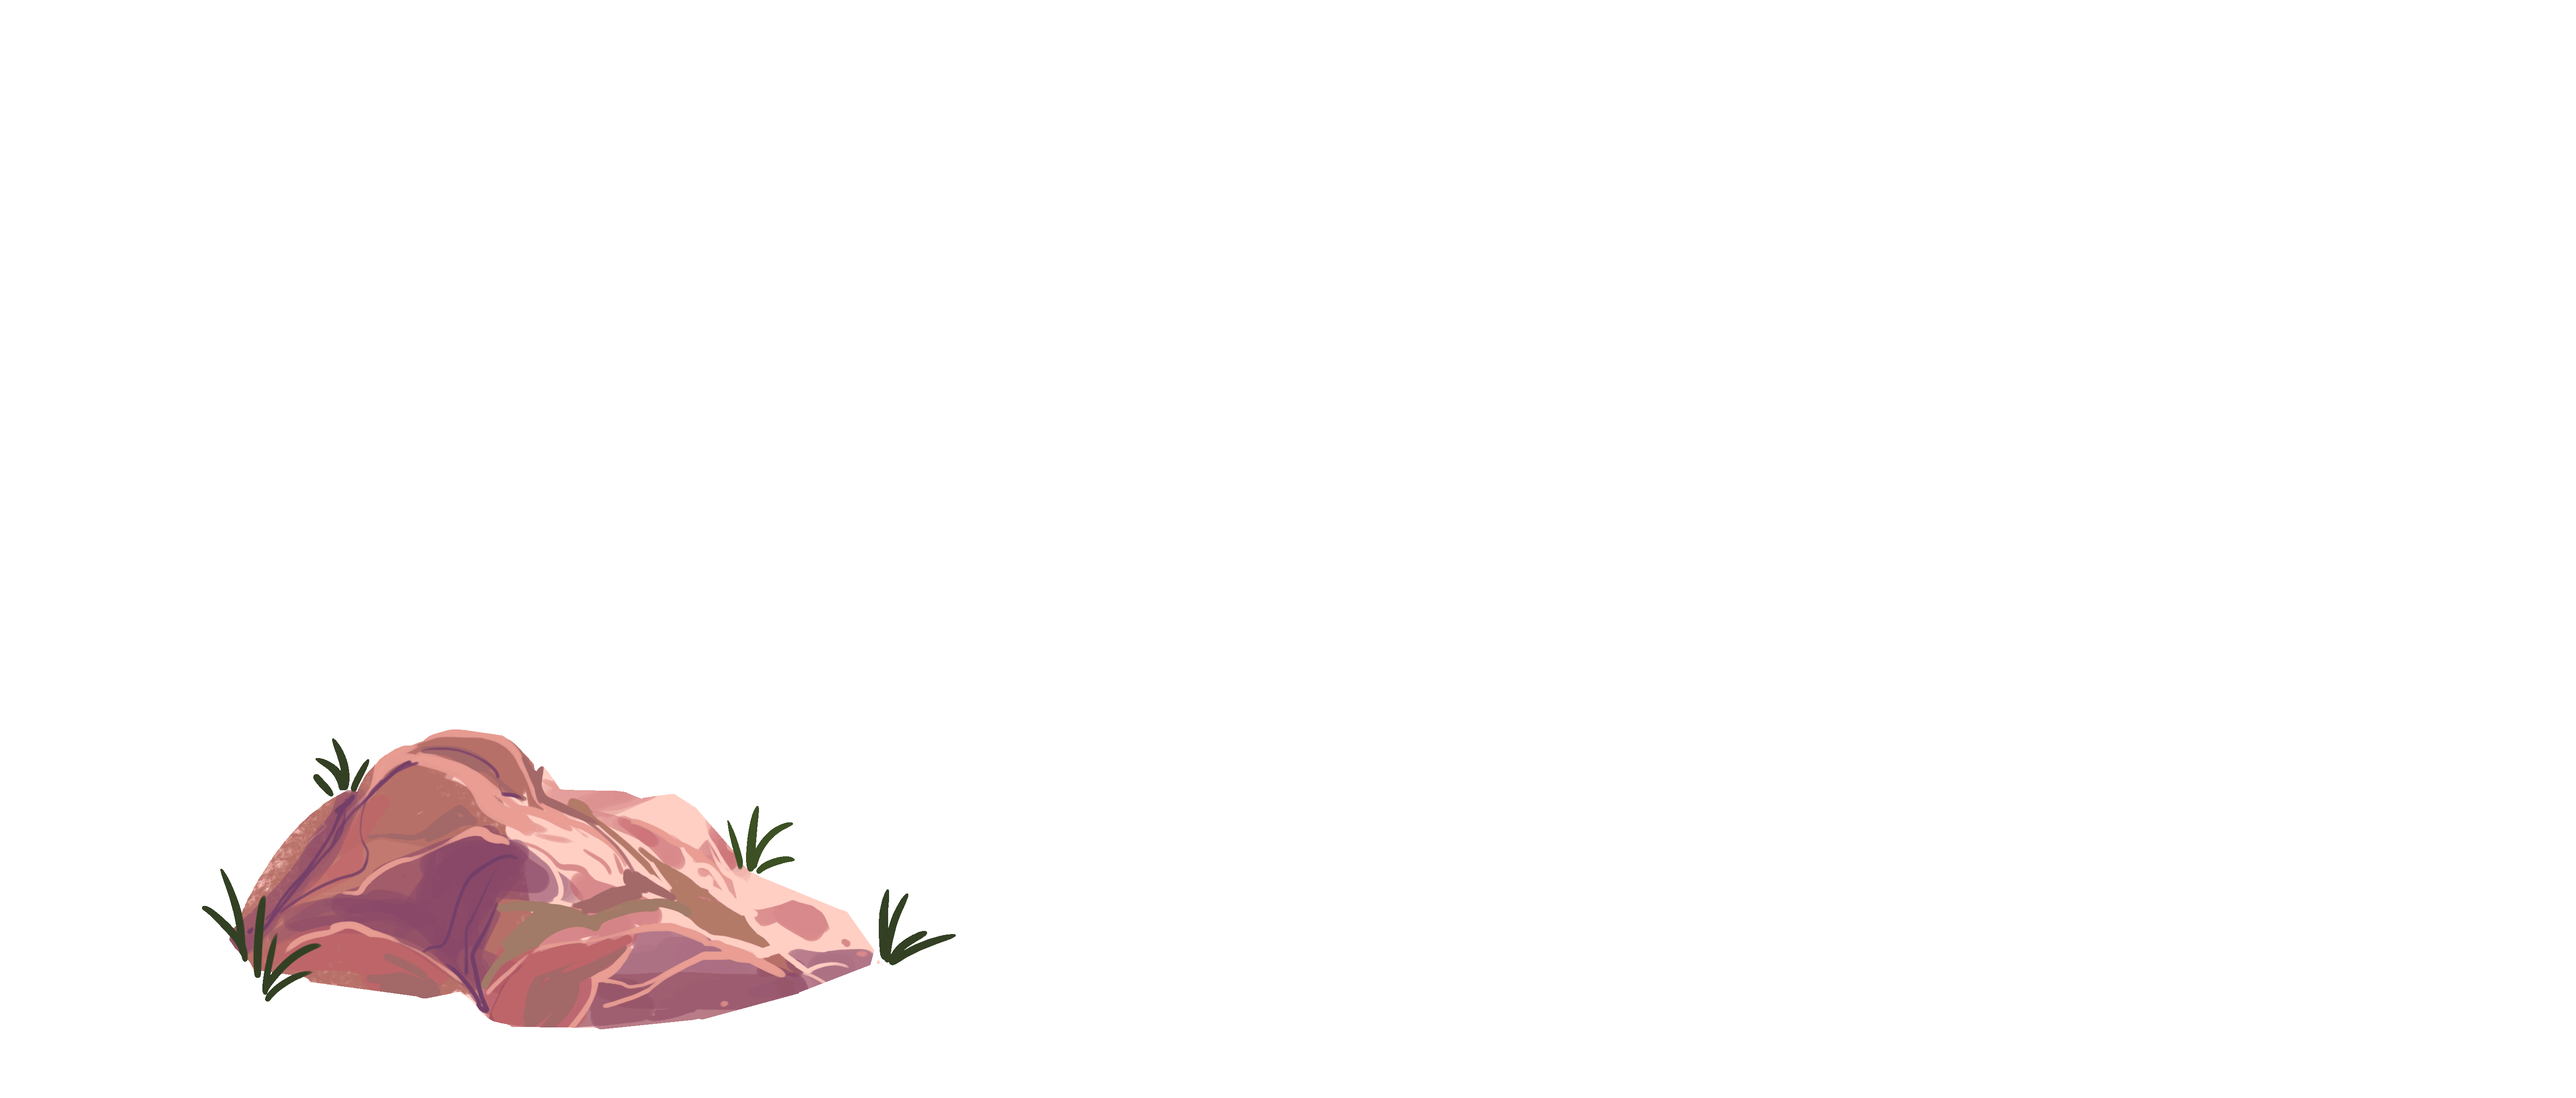
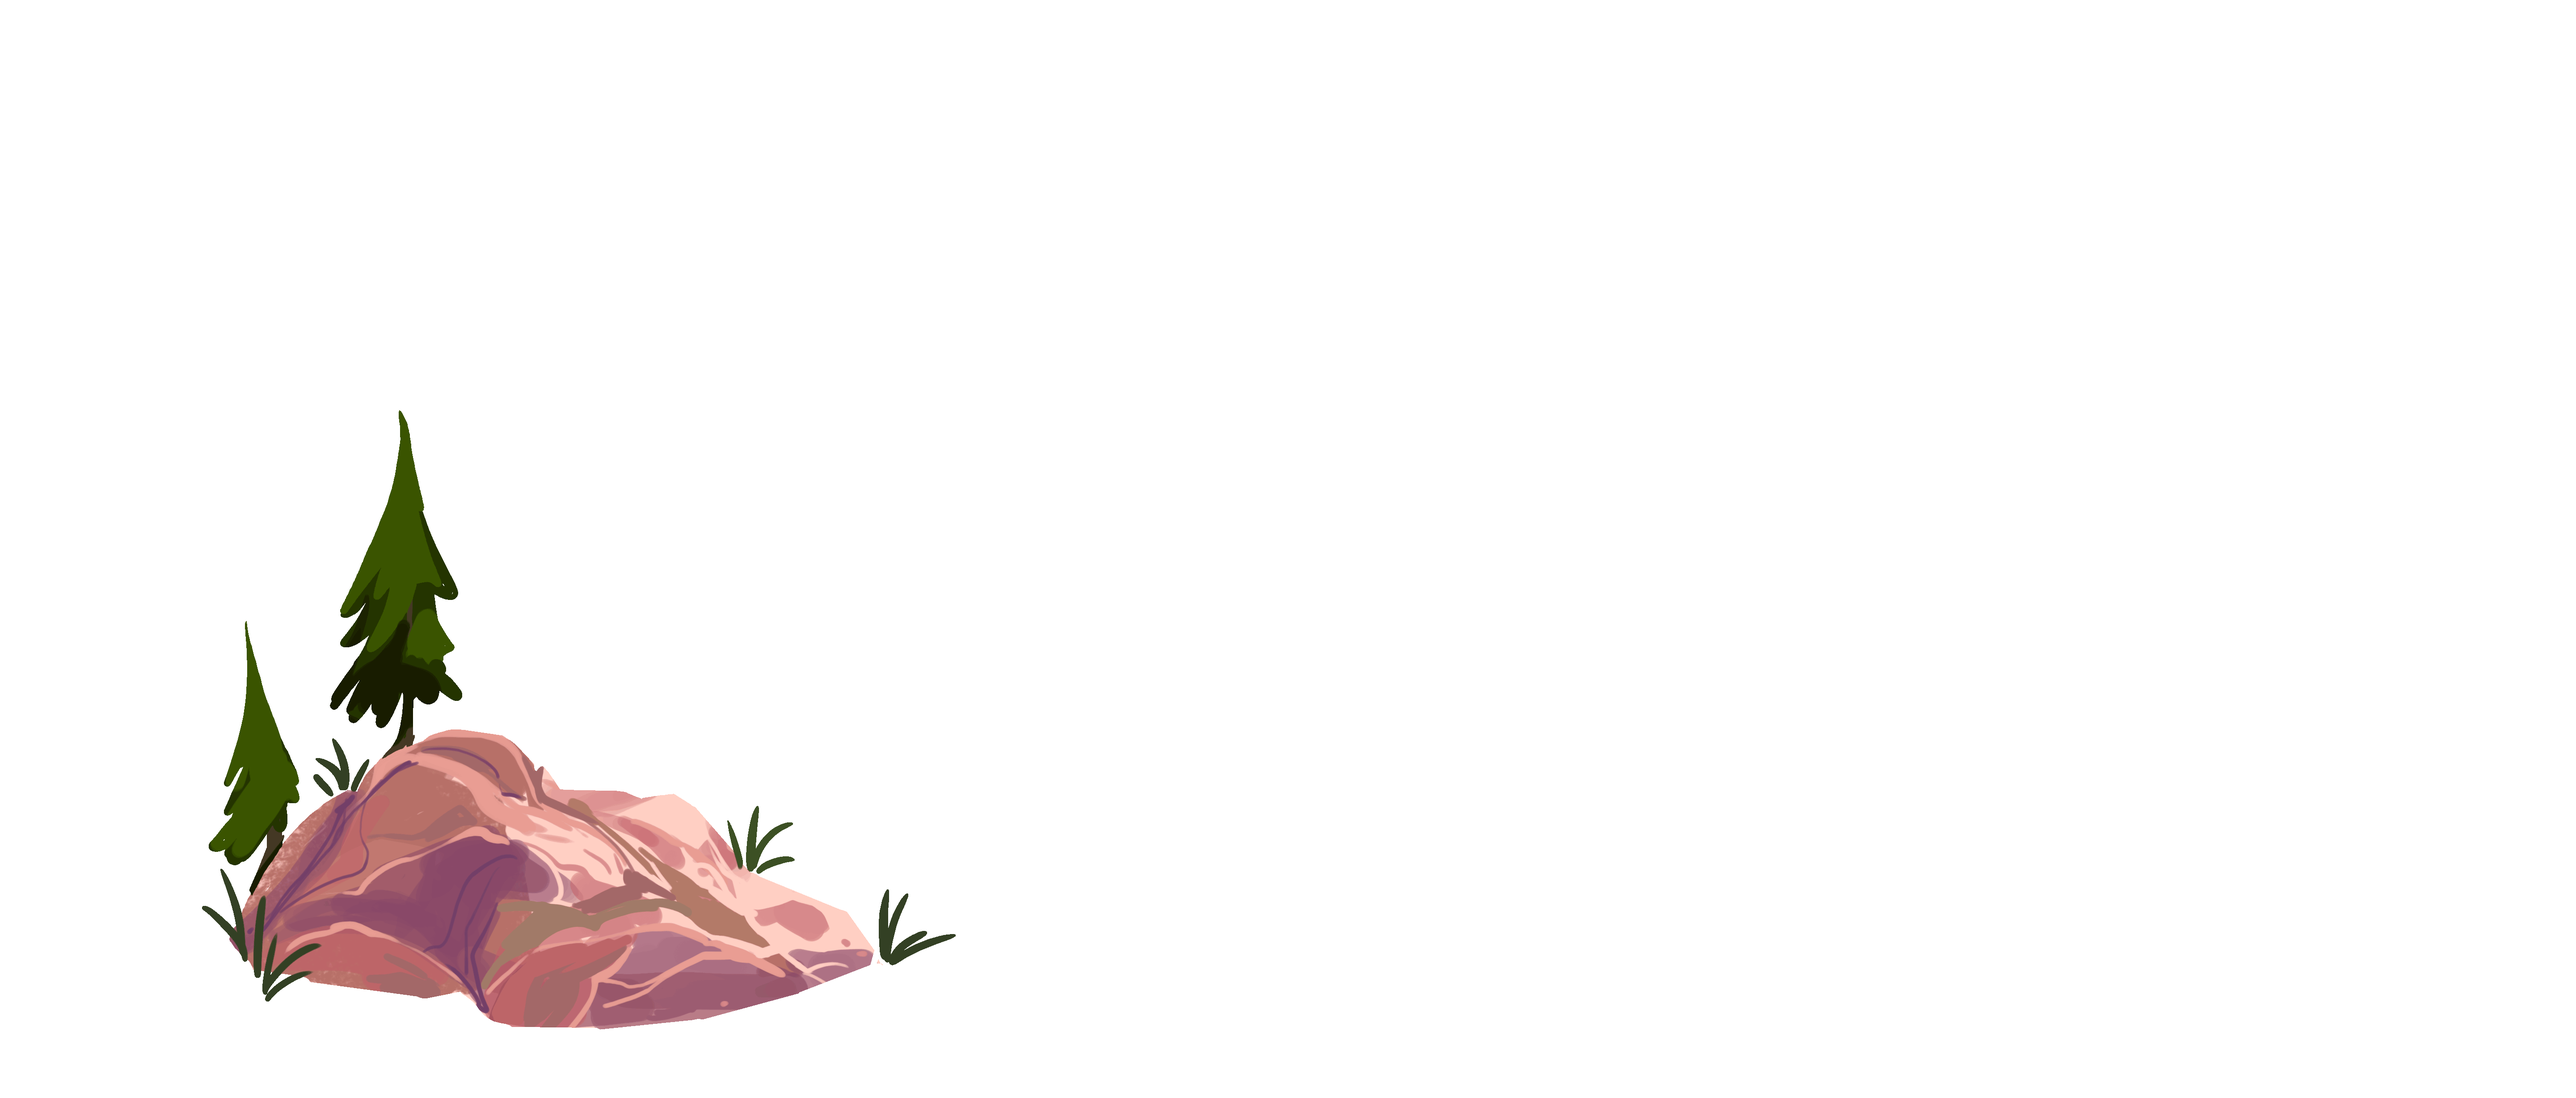
update clay with trees

Changed region(s): [[0.0625, 0.402, 0.1874, 0.8039]]

diff --git a/scenes/game.js b/scenes/game.js
@@ -106,9 +106,9 @@ function buildWorld(config) {
     // Background theme, layered under the ambient loop at a lower volume than on the menu scenes.
     audioController.playMusic(MUSIC_TRACK, GAME_MUSIC_VOLUME);
 
-    // The torch lights the kiln. The fox stands on it, e.g. at (1501, 555), and clicks.
+    // The torch lights the kiln. The fox stands on it, e.g. at (1471, 555), and clicks.
     var torch = Crafty.e("2D, DOM, Color, Mouse, DebugHitbox")
-        .attr({x: 1495, y: 549, w: 52, h: 72}) // the 40x60 torch grown 6 px each side to be easier to reach
+        .attr({x: 1465, y: 549, w: 52, h: 72}) // the 40x60 torch grown 6 px each side to be easier to reach
         .color(TORCH_COLOR, 0); // invisible: the kiln picture shows the fire, the torch only takes the click
     torch.bind("MouseDown", function () {
         if (player.touches(this)) {
@@ -264,10 +264,9 @@ function buildWorld(config) {
         }
     }
 
-    // Each clay node's dig zone is cut from its patch's art (see Clay.clay). The white patch is moved from
-    // the forest to the bottom right, past the kiln (its middle ends up around 1729, 697).
+    // Each clay node's dig zone is cut from its patch's art (see Clay.clay), moved by CLAY_PATCH_SHIFTS.
     config.clays.forEach(function (key) {
-        Crafty.e("Clay").clay(CLAY_TYPES[key], key === "white" ? {x: 1260, y: 139} : undefined);
+        Crafty.e("Clay").clay(CLAY_TYPES[key], CLAY_PATCH_SHIFTS[key]);
     });
 
     TouchControls.follow(player);

diff --git a/constants.js b/constants.js
@@ -136,6 +136,12 @@ var DOOR_DESTINATIONS = {
     outside: {x: 950, y: 575},
     inside: {x: -2500, y: 350, facing: "right"}
 };
+// How far each clay patch is moved from where it is drawn on the map (world px; none for red). The white patch is
+// moved from the forest to the bottom right, past the kiln (its middle ends up around 1679, 722).
+var CLAY_PATCH_SHIFTS = {
+    white: {x: 1210, y: 164},
+    black: {x: 0, y: 50}
+};
 // How opaque a clay patch's picture stays while it is dug and replenishing.
 var CLAY_DUG_ALPHA = 0.8;
 var OUTSIDE_MAP_PX = {w: 5763, h: 2458};
@@ -165,7 +171,7 @@ var KILN_TREES = [
 var KILN_ART_CONTENT = [376, 358, 782, 546];
 // Fired pots appear this far from the middle of the kiln zone (left and down, clear of the torch).
 var KILN_OUTPUT_OFFSET = {x: -20, y: 20};
-var KILN_ART_BOX = {x: 1370, y: 478, w: 260, h: 181};
+var KILN_ART_BOX = {x: 1340, y: 478, w: 260, h: 181};
 var DOOR_ART_CONTENT = [630, 634, 856, 1102];
 // Each house door's trigger zone (top-left x, y and size). The outside one is exactly the door picture.
 var DOOR_BOXES = {
